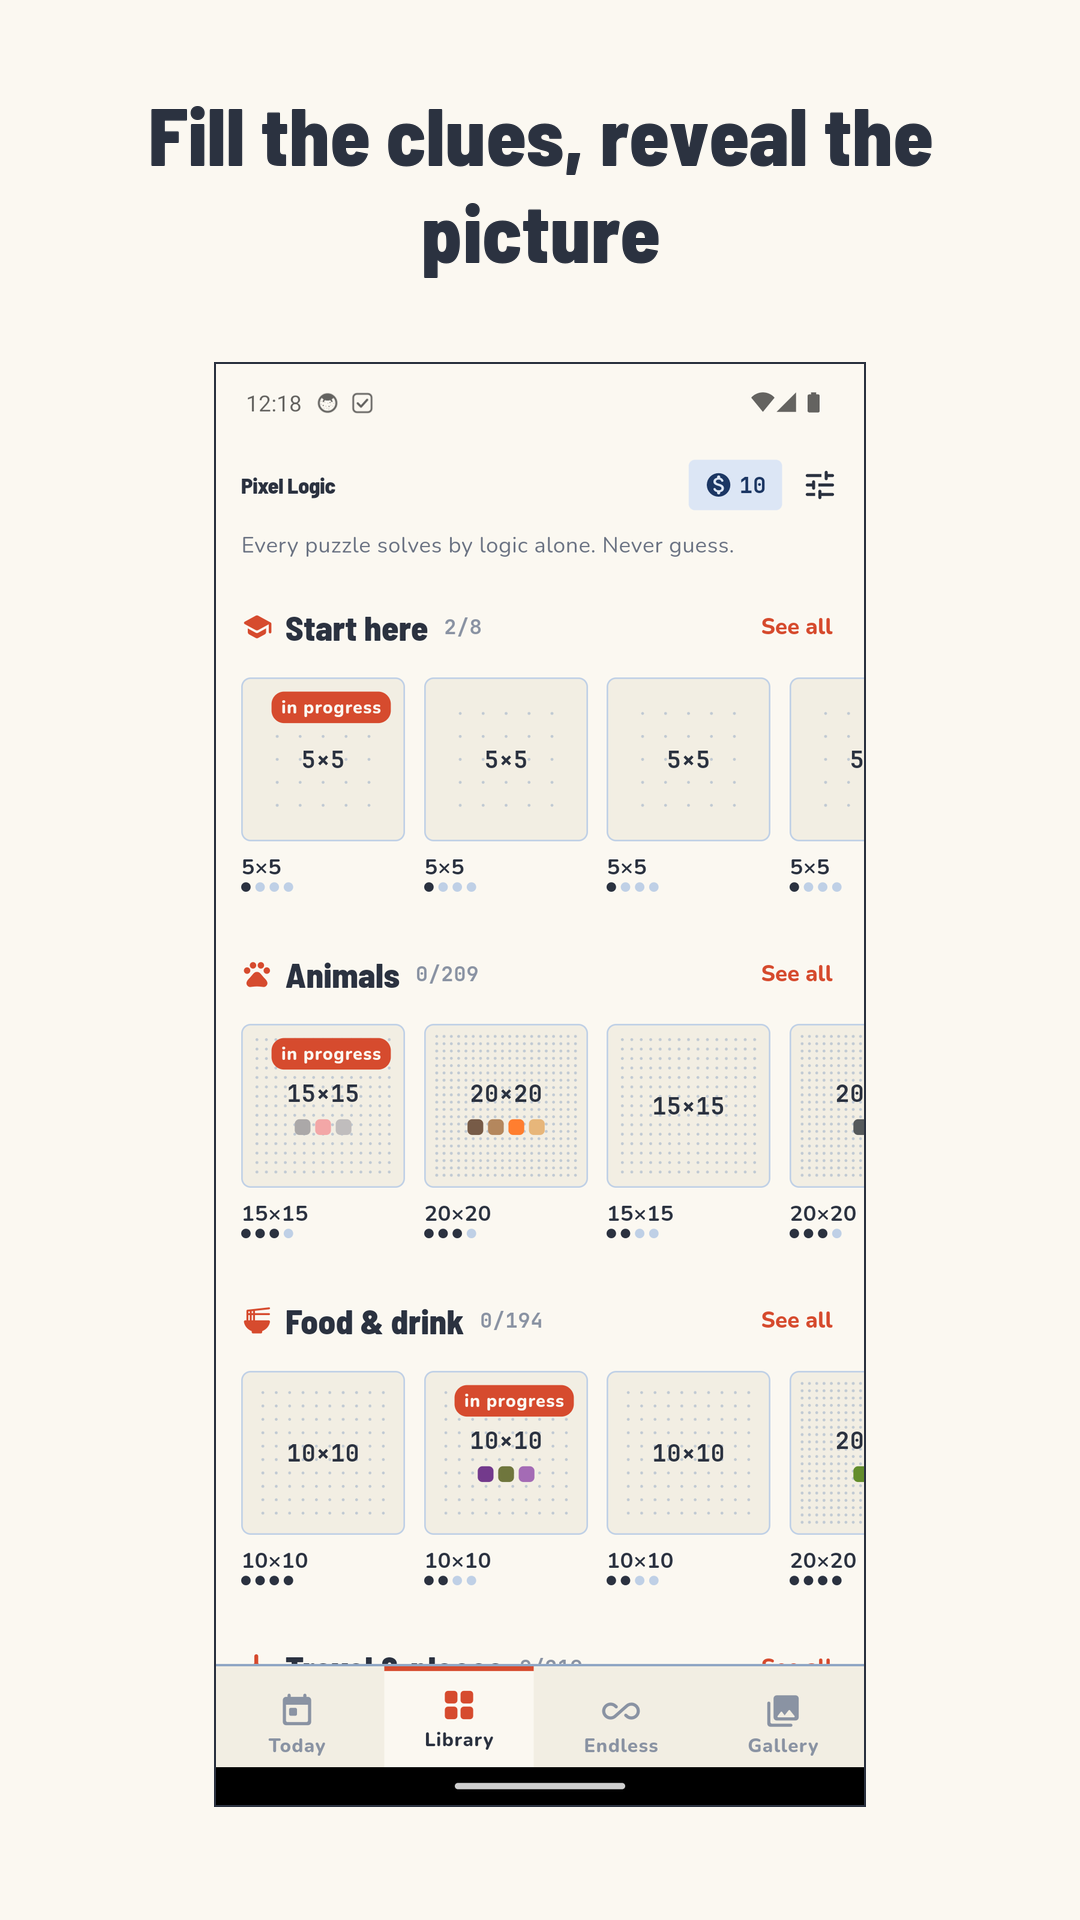
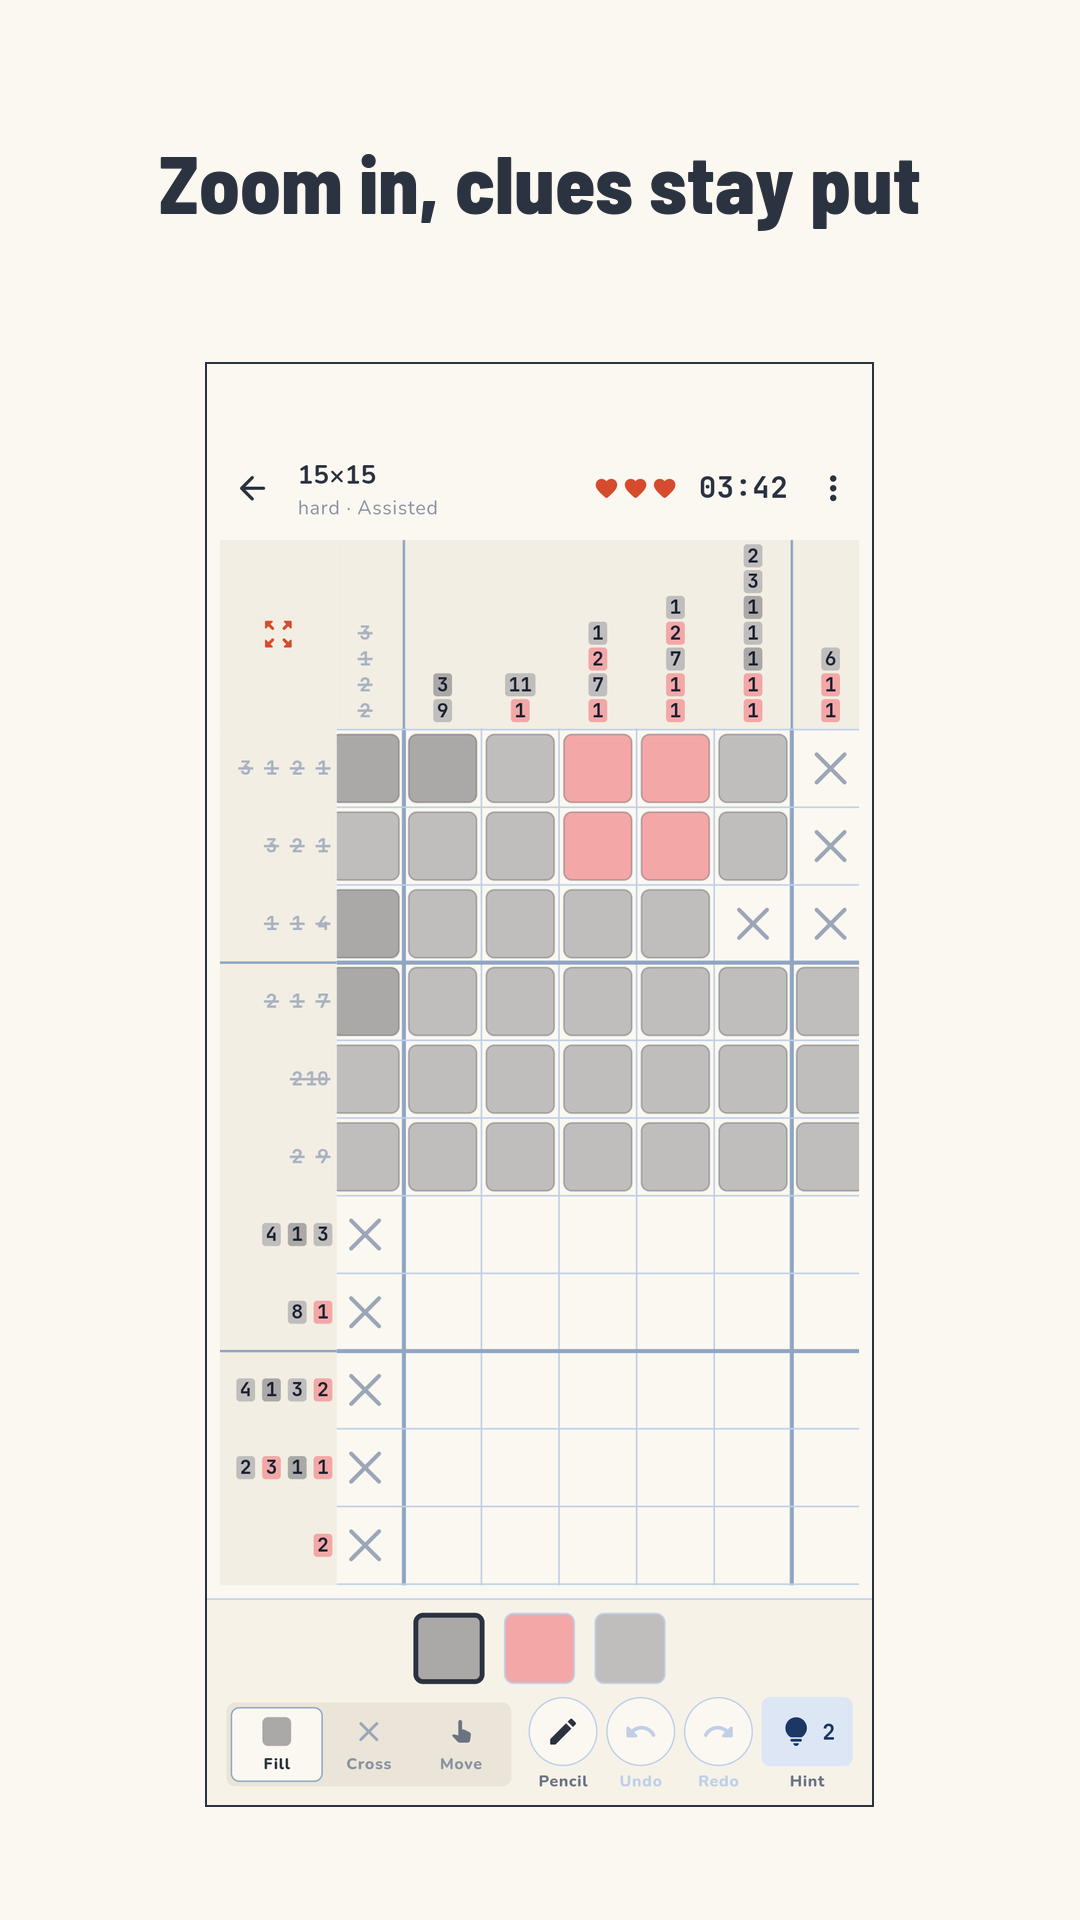
Publish apps/D08-nonogram from app/D08-nonogram-aso@f431404

Changed region(s): [[0.1833, 0.1875, 0.825, 0.9375], [0.1222, 0.0312, 0.8556, 0.1562]]

diff --git a/apps/cellwise/privacy/index.html b/apps/cellwise/privacy/index.html
@@ -81,14 +81,18 @@ footer{margin:3rem 0 1rem;padding-top:1rem;border-top:1px solid var(--line);colo
 </head>
 <body>
 <h1>Cellwise – Nonogram: Privacy Policy</h1>
-<p>Last updated: 17 October 2026</p>
+<p>Last updated: 24 October 2026</p>
 <p>Cellwise is a puzzle game by InfiV Labs that runs entirely on your device.</p>
 <h2>What we collect</h2>
-<ul><li><b>Nothing that identifies you.</b> The app has no account, no sign-in and no server of its own.</li><li><b>Puzzle progress, settings, coins and purchases</b> are stored only on your device, in the app&#x27;s private storage. Android may include them in your device backup. You can export them as a file from Settings and delete them by uninstalling the app.</li><li><b>The share card and the backup file</b> go only where you send them from the share sheet.</li></ul>
+<ul><li><b>No name, email or account.</b> The app has no sign-in and no server of its own. The services below use device identifiers (an advertising ID, random app ids) as described there.</li><li><b>Puzzle progress, settings, coins and purchases</b> are stored only on your device, in the app&#x27;s private storage. Android may include them in your device backup. You can export them as a file from Settings and delete them by uninstalling the app.</li><li><b>The share card and the backup file</b> go only where you send them from the share sheet.</li></ul>
 <h2>Third-party services</h2>
 <ul><li><b>Google AdMob</b> shows ads to players without Premium. To serve and measure ads, Google&#x27;s SDK may use the advertising identifier, device and app information, ad interactions and an approximate location derived from your IP address. In the EEA, the UK and Switzerland you are asked for consent through Google&#x27;s consent form before any ad loads, and you can change your choice at any time under Settings → Privacy options. Google&#x27;s policy: <a href="https://policies.google.com/technologies/ads">https://policies.google.com/technologies/ads</a></li><li><b>RevenueCat</b> processes purchase and subscription receipts so Premium can be restored on a new device and a lapsed subscription is recognised. It receives an anonymous app user id and the store receipt, never your name or email. Policy: <a href="https://www.revenuecat.com/privacy">https://www.revenuecat.com/privacy</a></li><li><b>Google Play</b> (and the Apple App Store, where the app is offered there) handles payment and your subscription. We never see your card details.</li><li><b>Firebase Analytics and Crashlytics (Google)</b> tell us which features are used and why the app crashed. Analytics receives app interactions (for example that a puzzle was opened or solved), app and device information and a random app-instance id; Crashlytics receives crash logs and diagnostics (device model, OS version, app version, memory). None of it is linked to an account, and the app sets Google&#x27;s consent flags so this data is never used for ads. Policy: <a href="https://firebase.google.com/support/privacy">https://firebase.google.com/support/privacy</a></li></ul>
+<h2>How long data is kept, and deleting it</h2>
+<ul><li>On your device: until you delete it. Uninstalling the app, or clearing its storage in Android settings, removes your progress, settings and coins.</li><li>Firebase Analytics keeps event-level data for 2 to 14 months (the project&#x27;s retention setting) and keeps aggregated, anonymous usage reports; Crashlytics keeps crash reports for 90 days.</li><li>RevenueCat keeps purchase records for as long as the store requires them for refunds, restores and accounting.</li><li>Google AdMob keeps ad data under Google&#x27;s policy linked above.</li><li>None of this is tied to a name, email or account, so we cannot look it up by person; event data and crash reports expire on the schedule above. Questions about your data: infivlabs@gmail.com.</li></ul>
+<h2>Security</h2>
+<p>Everything the app sends goes over encrypted connections (HTTPS) to the services above. We run no server of our own and keep no copy of your data.</p>
 <h2>Your choices</h2>
-<ul><li>Change or withdraw ad consent: Settings → Privacy options.</li><li>Reset your advertising identifier or opt out of personalised ads: your device&#x27;s Google settings → Ads.</li><li>Export your data: Settings → Export progress. Delete it: uninstall the app.</li></ul>
+<ul><li>Change or withdraw ad consent: Settings → Privacy options.</li><li>Reset your advertising identifier or opt out of personalised ads: your device&#x27;s Google settings → Ads.</li><li>Export your data: Settings → Export progress. Delete it: uninstall the app (the services&#x27; copies expire as described above).</li></ul>
 <h2>Children</h2>
 <p>The app is rated for ages 13 and up and does not knowingly collect data from children.</p>
 <h2>Changes</h2>
